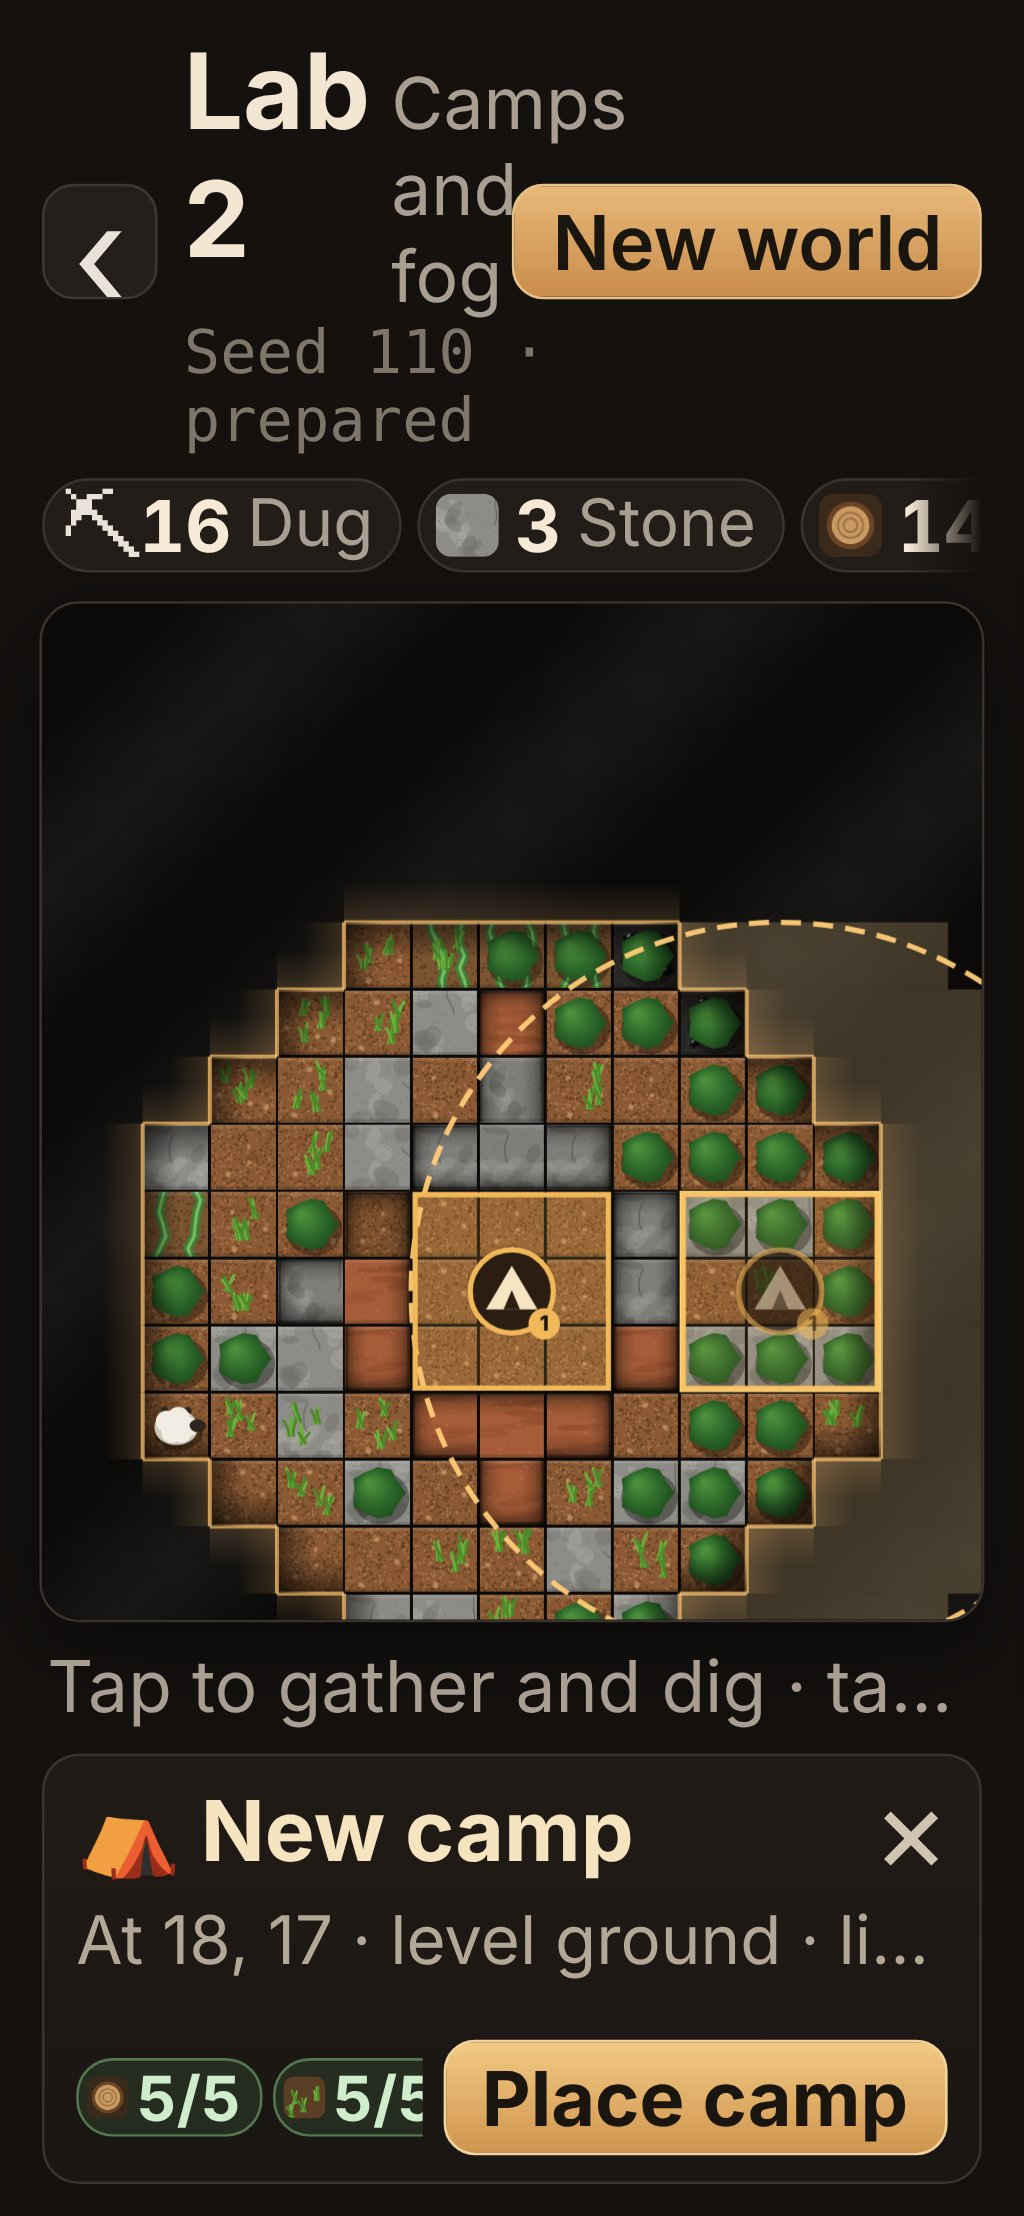
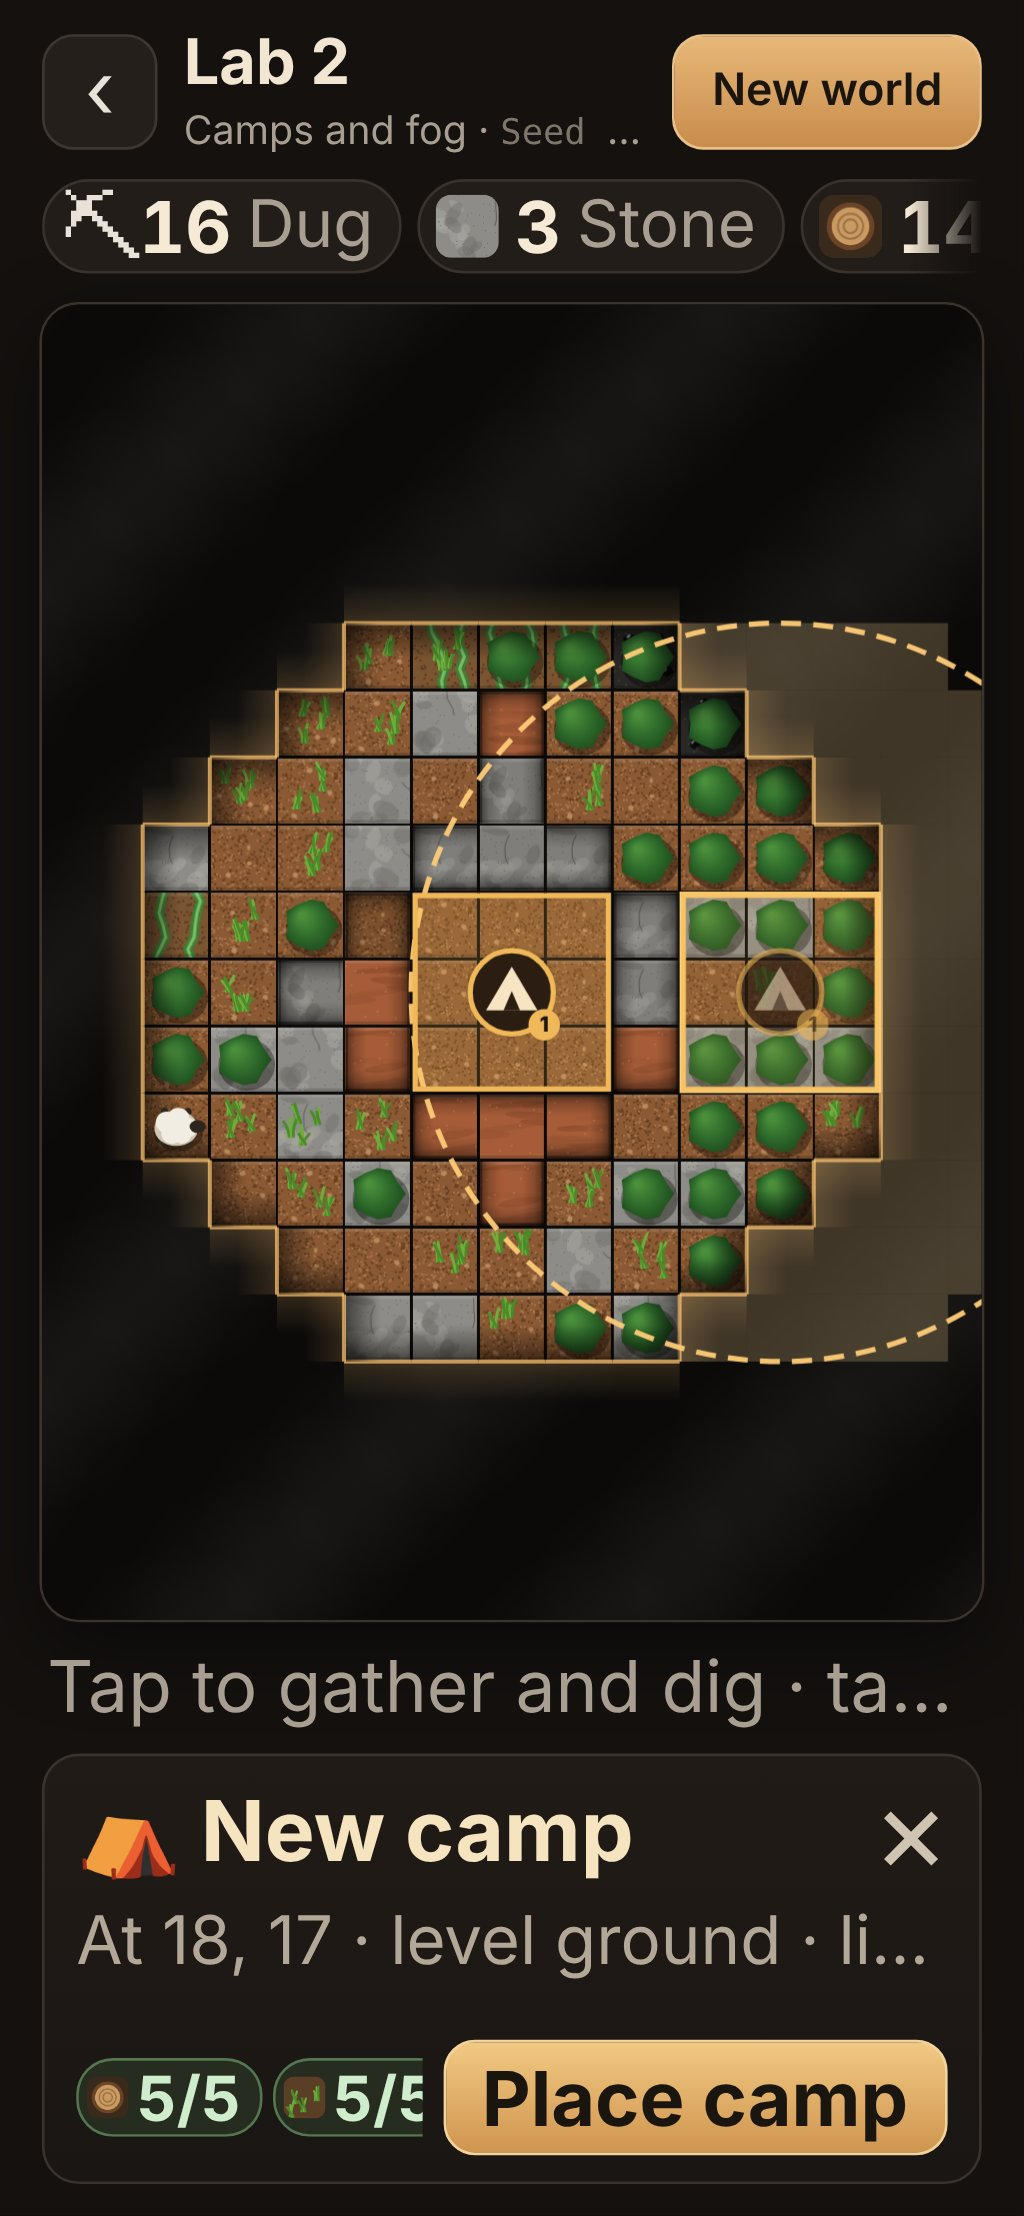
Android: phone text size off; lab top bar always one row
The owner's answers on PR #123 (questions 136 and 137):

- "Use app sizes and turn off phone text size": MainActivity sets the
  WebView's text zoom to 100%.
- "Let's fix the top bar": the shared lab top bar is one row in Lab 1
  and Lab 2. The title box has two lines (title; subtitle and seed), each
  cut off with "..." rather than wrapped, and the bar's text grows with
  the root size only up to a cap. An e2e check covers it at every tested
  size, portrait and landscape, with root text 100-200%.

Recorded in docs/owner-questions.md and decision note 0044, which also
notes that reviews are paused while the owner playtests.

Claude-Session: https://claude.ai/code/session_013qbeeYRuiqGUrErSzN4qt9

diff --git a/tests/e2e/lab2.spec.ts b/tests/e2e/lab2.spec.ts
@@ -569,6 +569,44 @@ async function expectInside(
   expect(box.y + box.height).toBeLessThanOrEqual(outer.y + outer.height + 0.5);
 }
 
+/**
+ * The shared top bar is one tidy row (owner, question 137): the back button,
+ * the title box and "New world" side by side, each whole inside the bar, no
+ * wrapping, and the title "Lab 2" never cut off.
+ */
+async function expectTidyTopBar(
+  page: Page,
+  screen: { width: number; height: number },
+): Promise<void> {
+  const bar = page.locator('.lab-top');
+  const box = await bar.boundingBox();
+  expect(box).not.toBeNull();
+  if (box === null) return;
+  expect(box.height).toBeLessThanOrEqual(70); // 62 at normal text, at most 68 with the capped sizes
+  await expectInside(bar, { x: 0, y: 0, width: screen.width, height: screen.height });
+  const parts = [bar.locator('.lab-back'), bar.locator('.lab-title-box'), bar.locator('.lab-new')];
+  let right = box.x;
+  for (const part of parts) {
+    await expectInside(part, box);
+    const partBox = await part.boundingBox();
+    if (partBox === null) return;
+    // Left to right, without overlapping.
+    expect(partBox.x).toBeGreaterThanOrEqual(right - 0.5);
+    right = partBox.x + partBox.width;
+  }
+  // The button's label and the title fit their boxes: neither is cut.
+  const cut = await bar.evaluate((el) => {
+    const title = el.querySelector('.lab-title');
+    const button = el.querySelector('.lab-new');
+    return {
+      title: title === null ? 1 : title.scrollWidth - title.clientWidth,
+      button: button === null ? 1 : button.scrollWidth - button.clientWidth,
+      bar: el.scrollWidth - el.clientWidth,
+    };
+  });
+  expect(cut).toEqual({ title: 0, button: 0, bar: 0 });
+}
+
 // The owner's bug report: "Place camp doesn't show" on their phone. On a
 // narrow screen, or with a larger text size, the button must still be whole
 // and inside the tray, and when it is off the line says why.
@@ -604,6 +642,8 @@ for (const phone of PHONES) {
       await expectInside(confirm, { x: 0, y: 0, width: phone.width, height: phone.height });
       await expectInside(page.getByTestId('lab2-place-cancel'), tray);
     };
+
+    await expectTidyTopBar(page, phone);
 
     // No spot yet: the button is off, and the line says to choose one.
     await page.getByTestId('lab2-camp-tool').click();
@@ -681,6 +721,7 @@ for (const screen of SCREENS) {
     const confirm = page.getByTestId('lab2-place-confirm');
     await expect(confirm).toBeEnabled();
     await expect(confirm).toHaveText('Place camp');
+    await expectTidyTopBar(page, screen);
     const tray = await page.getByTestId('lab2-tray').boundingBox();
     expect(tray).not.toBeNull();
     if (tray === null) return;

diff --git a/src/app/lab/lab.css b/src/app/lab/lab.css
@@ -117,6 +117,12 @@ body[data-screen='lab2'] {
 }
 
 .lab-top {
+  /* The top bar is always one row: the back button, the title box, and "New
+     world" (owner, question 137). Its text grows with the page's text size
+     only up to a cap, and the title box's two lines are cut off with "…"
+     rather than wrapped, so on a narrow phone or with large text the bar
+     keeps its shape. */
+  flex: 0 0 auto;
   display: flex;
   align-items: center;
   gap: 10px;
@@ -128,7 +134,7 @@ body[data-screen='lab2'] {
   width: 44px;
   height: 44px;
   padding: 0;
-  font-size: 1.7rem;
+  font-size: min(1.7rem, 30px);
   line-height: 1;
   border-radius: 12px;
   background: #241f1b;
@@ -138,36 +144,44 @@ body[data-screen='lab2'] {
 .lab-title-box {
   flex: 1 1 auto;
   min-width: 0;
-  display: grid;
-  grid-template-columns: auto 1fr;
-  align-items: baseline;
-  column-gap: 8px;
+  display: flex;
+  flex-direction: column;
+  gap: 2px;
+}
+
+.lab-title,
+.lab-subline {
+  margin: 0;
+  white-space: nowrap;
+  overflow: hidden;
+  text-overflow: ellipsis;
 }
 
 .lab-title {
-  margin: 0;
-  font-size: 1.25rem;
+  font-size: min(1.25rem, 24px);
+  line-height: 1.15;
   color: #f2e6d2;
 }
 
-.lab-subtitle {
-  margin: 0;
-  font-size: 0.85rem;
+.lab-subline {
+  font-size: min(0.8rem, 15px);
+  line-height: 1.3;
   color: #a89f92;
 }
 
 .lab-seed {
-  grid-column: 1 / -1;
   font-family: ui-monospace, monospace;
-  font-size: 0.72rem;
+  font-size: 0.9em;
   color: #7f766b;
 }
 
 .lab .lab-new {
   flex: 0 0 auto;
+  height: 44px;
   padding: 0 14px;
   border-radius: 12px;
-  font-size: 0.9rem;
+  white-space: nowrap;
+  font-size: min(0.9rem, 17px);
   font-weight: 600;
   color: #1b1510;
   background: linear-gradient(180deg, #e7b878, #c98c4c);

diff --git a/src/app/lab/labDom.ts b/src/app/lab/labDom.ts
@@ -53,11 +53,15 @@ export function labTopBar(title: string, subtitle: string, onBack: () => void): 
   const back = button('lab-back', '‹');
   back.setAttribute('aria-label', 'Back to the start screen');
   back.addEventListener('click', onBack);
+  // Two short lines, each cut off with "…" rather than wrapped, so the bar is
+  // always one row high (owner, question 137): the title, then the subtitle
+  // and the seed.
   const titleBox = element('div', 'lab-title-box');
-  titleBox.append(element('h1', 'lab-title', title), element('p', 'lab-subtitle', subtitle));
   const seedText = element('span', 'lab-seed');
   seedText.dataset['testid'] = 'lab-seed';
-  titleBox.append(seedText);
+  const subline = element('p', 'lab-subline');
+  subline.append(element('span', 'lab-subtitle', subtitle), ' · ', seedText);
+  titleBox.append(element('h1', 'lab-title', title), subline);
   const newWorld = button('lab-new', 'New world');
   bar.append(back, titleBox, newWorld);
   return { bar, seedText, newWorld };

diff --git a/android/app/src/main/java/com/dachhack/mininggame/MainActivity.java b/android/app/src/main/java/com/dachhack/mininggame/MainActivity.java
@@ -1,5 +1,19 @@
 package com.dachhack.mininggame;
 
+import android.os.Bundle;
+import android.webkit.WebSettings;
 import com.getcapacitor.BridgeActivity;
 
-public class MainActivity extends BridgeActivity {}
+public class MainActivity extends BridgeActivity {
+
+    @Override
+    public void onCreate(Bundle savedInstanceState) {
+        super.onCreate(savedInstanceState);
+        // The app always uses its own text sizes: the phone's text-size setting
+        // (WebView text zoom) is turned off, the owner's answer to question 136.
+        // With it on, Android scaled every font in the page and pushed buttons
+        // out of fixed-height bars ("Place camp doesn't show", PR #123).
+        WebSettings settings = getBridge().getWebView().getSettings();
+        settings.setTextZoom(100);
+    }
+}

diff --git a/docs/owner-questions.md b/docs/owner-questions.md
@@ -144,3 +144,5 @@ Agents add design questions here instead of guessing. The coordinator keeps this
 | 133 | UI lab 2 (issue #118): the issue describes greyed squares ("a camp was moved or removed") but no way to move or remove a camp. Should there be one, and what should it give back?                                                                                                                                                                                                                                                                                      | Lab 2             | assumed    | Pack up is replaced by Demolish (owner's answer to question 134): a camp can be demolished only when other camps' rings cover its whole 3 x 3 base, and it gives nothing back. What only it lit turns grey. The last camp can never be demolished, since another camp must cover it. Moving a camp is not offered.                                                                                                                                                                                                                                                                                                                                                                                                                                                                                                                                                   |
 | 134 | UI lab 2 (#118): a camp's square is never mined, so it stays at ground level, and the level rule keeps every square near it no deeper than its distance from it. So hard rock a level-1 camp uncovers (4 steps away) stays unminable while that camp stands, even after upgrading; hard rock further out in a level-2 ring can be mined. A lone camp digs only about half its radius deep (5 for ring 8). Is that wanted?                                              | Lab 2             | answered   | Owner (2026-11-21): "Camps are multiple squares? You would need to demolish the camp first, but your area would need to be covered by a second camp first. Camps should only be on level ground if they are multiple squares." Done: camps stand on a 3 x 3 of level ground; Demolish needs other camps to cover the whole base, and its ground can then be mined (note 0042).                                                                                                                                                                                                                                                                                                                                                                                                                                                                                       |
 | 135 | UI lab 2 (#121): trees give "Wood", a lab item, while the game's timber-root blocks still give "Timber". Two names for much the same thing may confuse a player. Should they be one item?                                                                                                                                                                                                                                                                              | Lab 2             | assumed    | Kept apart for now, so the game's data is unchanged: Wood comes only from trees and apple trees and pays for camps; Timber from timber-root pays for nothing in Lab 2. Merging them is a lab-data change.                                                                                                                                                                                                                                                                                                                                                                                                                                                                                                                                                                                                                                                            |
+| 136 | UI lab 2 (PR #123): Android applies the phone's text-size setting (WebView text zoom) to the app, which pushed Place camp out of fixed-height bars. Keep honouring it, or always use the app's own sizes?                                                                                                                                                                                                                                                              | Lab 2             | answered   | Owner (2026-11-22): "Use app sizes and turn off phone text size." `MainActivity` sets the WebView's text zoom to 100%, so the phone's setting no longer scales the app (note 0044). The layouts still cope with a larger root font size, kept in the e2e tests as a guard.                                                                                                                                                                                                                                                                                                                                                                                                                                                                                                                                                                                           |
+| 137 | UI lab 2 (PR #123): with large text the shared lab top bar (back, title, subtitle, seed, New world) wrapped onto several lines and crowded itself. Fix it, or leave it?                                                                                                                                                                                                                                                                                                | Lab 2             | answered   | Owner (2026-11-22): "Let's fix the top bar." It is now always one row: the title on one line, subtitle and seed on a second, each cut off with "…" rather than wrapped; its text grows with the page only up to a cap. An e2e check covers it at every tested size, portrait and landscape (note 0044).                                                                                                                                                                                                                                                                                                                                                                                                                                                                                                                                                              |

diff --git a/docs/decisions/0044-lab-2-text-size-and-top-bar.md b/docs/decisions/0044-lab-2-text-size-and-top-bar.md
@@ -1,0 +1,31 @@
+# 0044 — Phone text size off, a one-row lab top bar, and reviews paused
+
+Date: 2026-11-22. Status: implemented (PR #123). Owner's answers to questions 136 and 137, from the bug report "Place camp doesn't show" in Lab 2. No game rule, game data number or golden hash changes; `ENGINE_VERSION` stays 0.4.0, and nothing under `src/engine` changed.
+
+## What
+
+- **The phone's text size is off in the Android app** (question 136). `MainActivity` sets the WebView's text zoom to 100%, so the app always uses its own sizes. With it on, Android scaled every font in the page, and Lab 2's fixed-height tray cut off its buttons.
+- **Lab 2's layout copes with large text and with a phone on its side anyway**, because the web build still follows a browser's own text-size setting:
+  - the tray is at least 164px, as before, but as tall as its content needs, and the map gives way;
+  - a short landscape screen puts the map on the left and the bar, counter, hint and tray on the right, the tray at the bottom;
+  - Place camp never shrinks, and when it is off it is an outlined button and the line says why ("Need 5 more wood and 5 more grass").
+- **The shared lab top bar is always one row** (question 137), in Lab 1 and Lab 2:
+  - the back button, the title box and "New world" side by side;
+  - the title box has two lines: the title, then the subtitle and seed, each cut off with "…" rather than wrapped;
+  - its text grows with the page's text size only up to a cap (`min(1.25rem, 24px)` and so on), so the bar is 62px high at normal text and at most 68px with any root size.
+- **Tests.** The e2e tests set the root font size to 130%, 150% and 200% as a guard, in portrait (390 × 844, 320 × 640) and on its side (915 × 412, 844 × 390, 740 × 360). At each size they check:
+  - the top bar is one tidy row;
+  - Place camp is whole and inside the tray, on screen, and places a camp when tapped.
+
+## Reviews paused
+
+The owner has stopped the reviewer sessions for now and does all the playtesting themselves; there is no separate reviewer. Until that changes, developers check their own work carefully before pushing:
+
+- `npm run lint && npm run typecheck && npm test`;
+- the e2e tests locally;
+- screenshots looked at, at the phone sizes above.
+
+## Choices
+
+- **A cap rather than fixed pixel sizes in the top bar.** Text still grows a little with a larger root size, up to the point where the bar would no longer fit one row.
+- **The Java change cannot be run here.** The cloud container has no Android SDK. CI's Android build compiles it.
